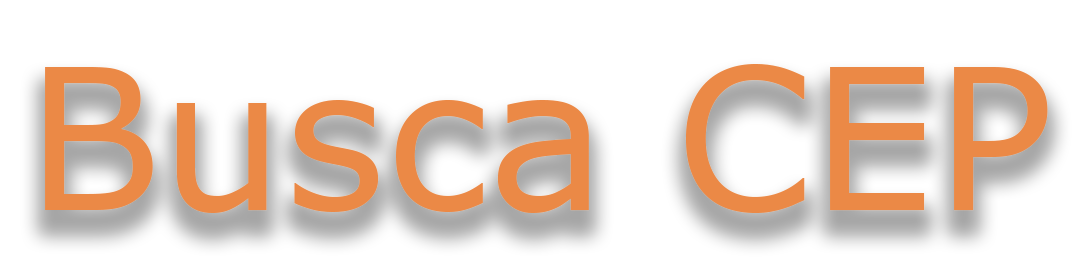
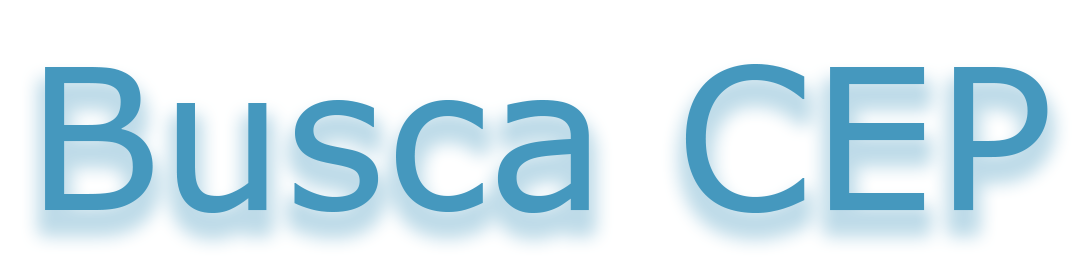
Alterações de ícones e cores.

diff --git a/App01_ConsultarCEP/App01_ConsultarCEP/App01_ConsultarCEP/MainPage.xaml b/App01_ConsultarCEP/App01_ConsultarCEP/App01_ConsultarCEP/MainPage.xaml
@@ -4,13 +4,18 @@
              xmlns:local="clr-namespace:App01_ConsultarCEP"
              x:Class="App01_ConsultarCEP.MainPage">
 
-    <StackLayout BackgroundColor="#00A6B2" Padding="30" Spacing="30">
+    <StackLayout BackgroundColor="#e1f1f2" Padding="30" Spacing="30">
 
-        <Image Source="TItuloPesquisaCEP.png" x:Name="Logo"/>
-        <Entry Placeholder="Digite o CEP" PlaceholderColor="#00A6B2" BackgroundColor="#FFFFFF" x:Name="entCep" Keyboard="Numeric"/>
-        <Button Text="Buscar" TextColor="#FFFFFF" BackgroundColor="#F87D28" x:Name="btnBuscar" Clicked="BtnBuscar_Clicked"/>
-        <Label Text="" HorizontalOptions="Center" VerticalOptions="CenterAndExpand" x:Name="txtResultado"/>
-        
+        <Image Source="TituloPesquisaCEP.png" x:Name="Logo"/>
+        <Entry Placeholder="Digite o CEP" PlaceholderColor="#e1f1f2" BackgroundColor="#FFFFFF" x:Name="entCep" Keyboard="Numeric"/>
+        <Button Text="Buscar" TextColor="#FFFFFF" BackgroundColor="#4598be" x:Name="btnBuscar" Clicked="BtnBuscar_Clicked"/>
+
+        <StackLayout Orientation="Horizontal" Padding="20">
+            
+            <Label Text="" HorizontalOptions="Center" VerticalOptions="CenterAndExpand" x:Name="txtResultado" FontSize="Medium" TextColor="#4598be"/>
+
+        </StackLayout>
+
     </StackLayout>
 
 </ContentPage>

diff --git a/App01_ConsultarCEP/App01_ConsultarCEP/App01_ConsultarCEP.Android/Resources/Resource.designer.cs b/App01_ConsultarCEP/App01_ConsultarCEP/App01_ConsultarCEP.Android/Resources/Resource.designer.cs
@@ -2342,26 +2342,26 @@ namespace App01_ConsultarCEP.Droid
 			// aapt resource value: 0x7f020053
 			public const int avd_hide_password = 2130837587;
 			
-			// aapt resource value: 0x7f02012f
-			public const int avd_hide_password_1 = 2130837807;
-			
-			// aapt resource value: 0x7f020130
-			public const int avd_hide_password_2 = 2130837808;
-			
 			// aapt resource value: 0x7f020131
-			public const int avd_hide_password_3 = 2130837809;
+			public const int avd_hide_password_1 = 2130837809;
+			
+			// aapt resource value: 0x7f020132
+			public const int avd_hide_password_2 = 2130837810;
+			
+			// aapt resource value: 0x7f020133
+			public const int avd_hide_password_3 = 2130837811;
 			
 			// aapt resource value: 0x7f020054
 			public const int avd_show_password = 2130837588;
 			
-			// aapt resource value: 0x7f020132
-			public const int avd_show_password_1 = 2130837810;
-			
-			// aapt resource value: 0x7f020133
-			public const int avd_show_password_2 = 2130837811;
-			
 			// aapt resource value: 0x7f020134
-			public const int avd_show_password_3 = 2130837812;
+			public const int avd_show_password_1 = 2130837812;
+			
+			// aapt resource value: 0x7f020135
+			public const int avd_show_password_2 = 2130837813;
+			
+			// aapt resource value: 0x7f020136
+			public const int avd_show_password_3 = 2130837814;
 			
 			// aapt resource value: 0x7f020055
 			public const int design_bottom_navigation_item_background = 2130837589;
@@ -2913,109 +2913,115 @@ namespace App01_ConsultarCEP.Droid
 			public const int ic_vol_type_tv_light = 2130837771;
 			
 			// aapt resource value: 0x7f02010c
-			public const int mr_button_connected_dark = 2130837772;
+			public const int Icon = 2130837772;
 			
 			// aapt resource value: 0x7f02010d
-			public const int mr_button_connected_light = 2130837773;
+			public const int mr_button_connected_dark = 2130837773;
 			
 			// aapt resource value: 0x7f02010e
-			public const int mr_button_connecting_dark = 2130837774;
+			public const int mr_button_connected_light = 2130837774;
 			
 			// aapt resource value: 0x7f02010f
-			public const int mr_button_connecting_light = 2130837775;
+			public const int mr_button_connecting_dark = 2130837775;
 			
 			// aapt resource value: 0x7f020110
-			public const int mr_button_dark = 2130837776;
+			public const int mr_button_connecting_light = 2130837776;
 			
 			// aapt resource value: 0x7f020111
-			public const int mr_button_light = 2130837777;
+			public const int mr_button_dark = 2130837777;
 			
 			// aapt resource value: 0x7f020112
-			public const int mr_dialog_close_dark = 2130837778;
+			public const int mr_button_light = 2130837778;
 			
 			// aapt resource value: 0x7f020113
-			public const int mr_dialog_close_light = 2130837779;
+			public const int mr_dialog_close_dark = 2130837779;
 			
 			// aapt resource value: 0x7f020114
-			public const int mr_dialog_material_background_dark = 2130837780;
+			public const int mr_dialog_close_light = 2130837780;
 			
 			// aapt resource value: 0x7f020115
-			public const int mr_dialog_material_background_light = 2130837781;
+			public const int mr_dialog_material_background_dark = 2130837781;
 			
 			// aapt resource value: 0x7f020116
-			public const int mr_group_collapse = 2130837782;
+			public const int mr_dialog_material_background_light = 2130837782;
 			
 			// aapt resource value: 0x7f020117
-			public const int mr_group_expand = 2130837783;
+			public const int mr_group_collapse = 2130837783;
 			
 			// aapt resource value: 0x7f020118
-			public const int mr_media_pause_dark = 2130837784;
+			public const int mr_group_expand = 2130837784;
 			
 			// aapt resource value: 0x7f020119
-			public const int mr_media_pause_light = 2130837785;
+			public const int mr_media_pause_dark = 2130837785;
 			
 			// aapt resource value: 0x7f02011a
-			public const int mr_media_play_dark = 2130837786;
+			public const int mr_media_pause_light = 2130837786;
 			
 			// aapt resource value: 0x7f02011b
-			public const int mr_media_play_light = 2130837787;
+			public const int mr_media_play_dark = 2130837787;
 			
 			// aapt resource value: 0x7f02011c
-			public const int mr_media_stop_dark = 2130837788;
+			public const int mr_media_play_light = 2130837788;
 			
 			// aapt resource value: 0x7f02011d
-			public const int mr_media_stop_light = 2130837789;
+			public const int mr_media_stop_dark = 2130837789;
 			
 			// aapt resource value: 0x7f02011e
-			public const int mr_vol_type_audiotrack_dark = 2130837790;
+			public const int mr_media_stop_light = 2130837790;
 			
 			// aapt resource value: 0x7f02011f
-			public const int mr_vol_type_audiotrack_light = 2130837791;
+			public const int mr_vol_type_audiotrack_dark = 2130837791;
 			
 			// aapt resource value: 0x7f020120
-			public const int navigation_empty_icon = 2130837792;
+			public const int mr_vol_type_audiotrack_light = 2130837792;
 			
 			// aapt resource value: 0x7f020121
-			public const int notification_action_background = 2130837793;
+			public const int navigation_empty_icon = 2130837793;
 			
 			// aapt resource value: 0x7f020122
-			public const int notification_bg = 2130837794;
+			public const int notification_action_background = 2130837794;
 			
 			// aapt resource value: 0x7f020123
-			public const int notification_bg_low = 2130837795;
+			public const int notification_bg = 2130837795;
 			
 			// aapt resource value: 0x7f020124
-			public const int notification_bg_low_normal = 2130837796;
+			public const int notification_bg_low = 2130837796;
 			
 			// aapt resource value: 0x7f020125
-			public const int notification_bg_low_pressed = 2130837797;
+			public const int notification_bg_low_normal = 2130837797;
 			
 			// aapt resource value: 0x7f020126
-			public const int notification_bg_normal = 2130837798;
+			public const int notification_bg_low_pressed = 2130837798;
 			
 			// aapt resource value: 0x7f020127
-			public const int notification_bg_normal_pressed = 2130837799;
+			public const int notification_bg_normal = 2130837799;
 			
 			// aapt resource value: 0x7f020128
-			public const int notification_icon_background = 2130837800;
-			
-			// aapt resource value: 0x7f02012d
-			public const int notification_template_icon_bg = 2130837805;
-			
-			// aapt resource value: 0x7f02012e
-			public const int notification_template_icon_low_bg = 2130837806;
+			public const int notification_bg_normal_pressed = 2130837800;
 			
 			// aapt resource value: 0x7f020129
-			public const int notification_tile_bg = 2130837801;
+			public const int notification_icon_background = 2130837801;
+			
+			// aapt resource value: 0x7f02012f
+			public const int notification_template_icon_bg = 2130837807;
+			
+			// aapt resource value: 0x7f020130
+			public const int notification_template_icon_low_bg = 2130837808;
 			
 			// aapt resource value: 0x7f02012a
-			public const int notify_panel_notification_icon_bg = 2130837802;
+			public const int notification_tile_bg = 2130837802;
 			
 			// aapt resource value: 0x7f02012b
-			public const int tooltip_frame_dark = 2130837803;
+			public const int notify_panel_notification_icon_bg = 2130837803;
 			
 			// aapt resource value: 0x7f02012c
-			public const int tooltip_frame_light = 2130837804;
+			public const int TituloPesquisaCEP = 2130837804;
+			
+			// aapt resource value: 0x7f02012d
+			public const int tooltip_frame_dark = 2130837805;
+			
+			// aapt resource value: 0x7f02012e
+			public const int tooltip_frame_light = 2130837806;
 			
 			static Drawable()
 			{

diff --git a/App01_ConsultarCEP/App01_ConsultarCEP/App01_ConsultarCEP.Android/MainActivity.cs b/App01_ConsultarCEP/App01_ConsultarCEP/App01_ConsultarCEP.Android/MainActivity.cs
@@ -9,7 +9,7 @@ using Android.OS;
 
 namespace App01_ConsultarCEP.Droid
 {
-    [Activity(Label = "App01_ConsultarCEP", Icon = "@mipmap/icon", Theme = "@style/MainTheme", MainLauncher = true, ConfigurationChanges = ConfigChanges.ScreenSize | ConfigChanges.Orientation)]
+    [Activity(Label = "ConsultaCEP", Icon = "@drawable/Icon", Theme = "@style/MainTheme", MainLauncher = true, ConfigurationChanges = ConfigChanges.ScreenSize | ConfigChanges.Orientation, ScreenOrientation = ScreenOrientation.Portrait)]
     public class MainActivity : global::Xamarin.Forms.Platform.Android.FormsAppCompatActivity
     {
         protected override void OnCreate(Bundle bundle)
